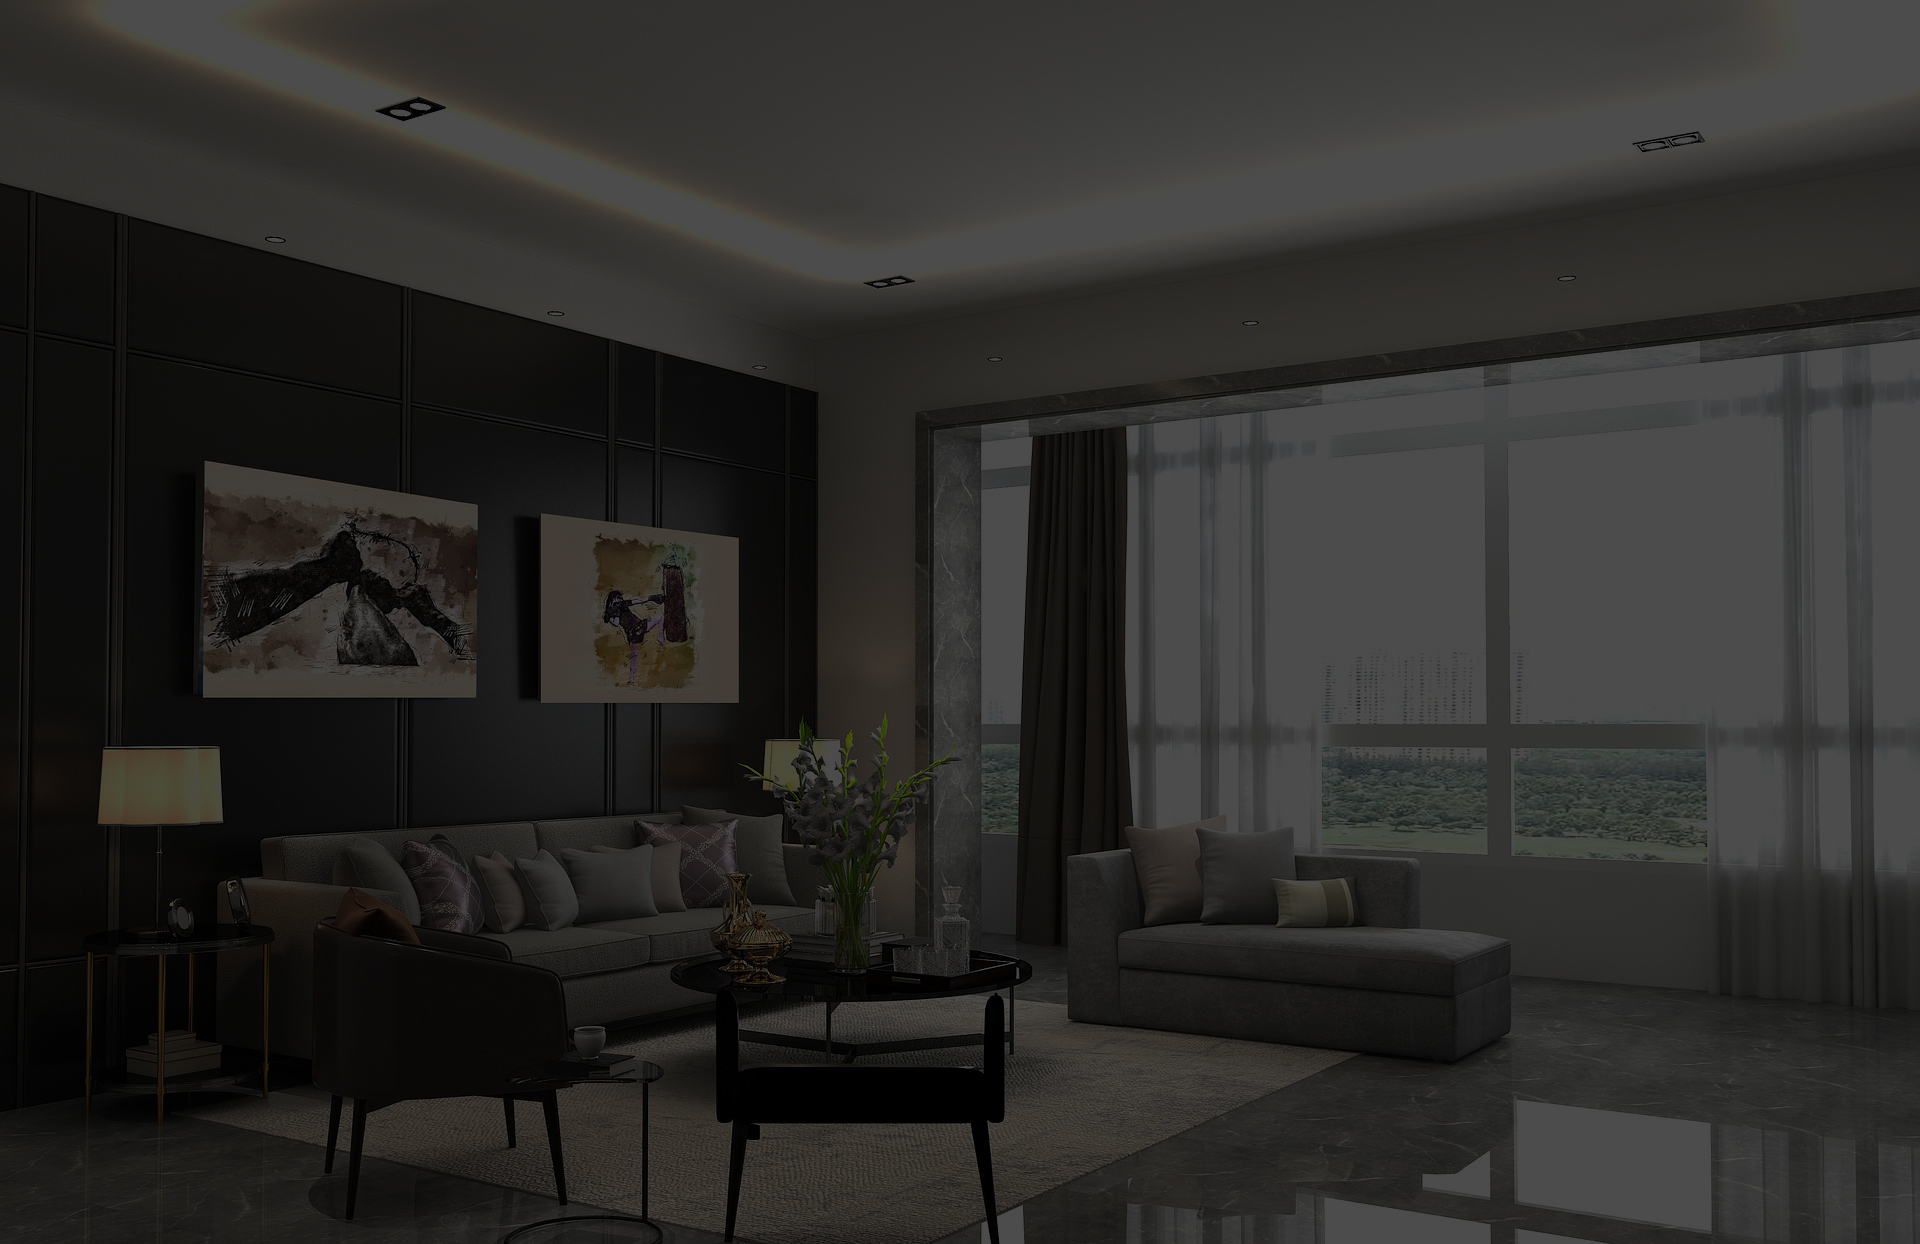
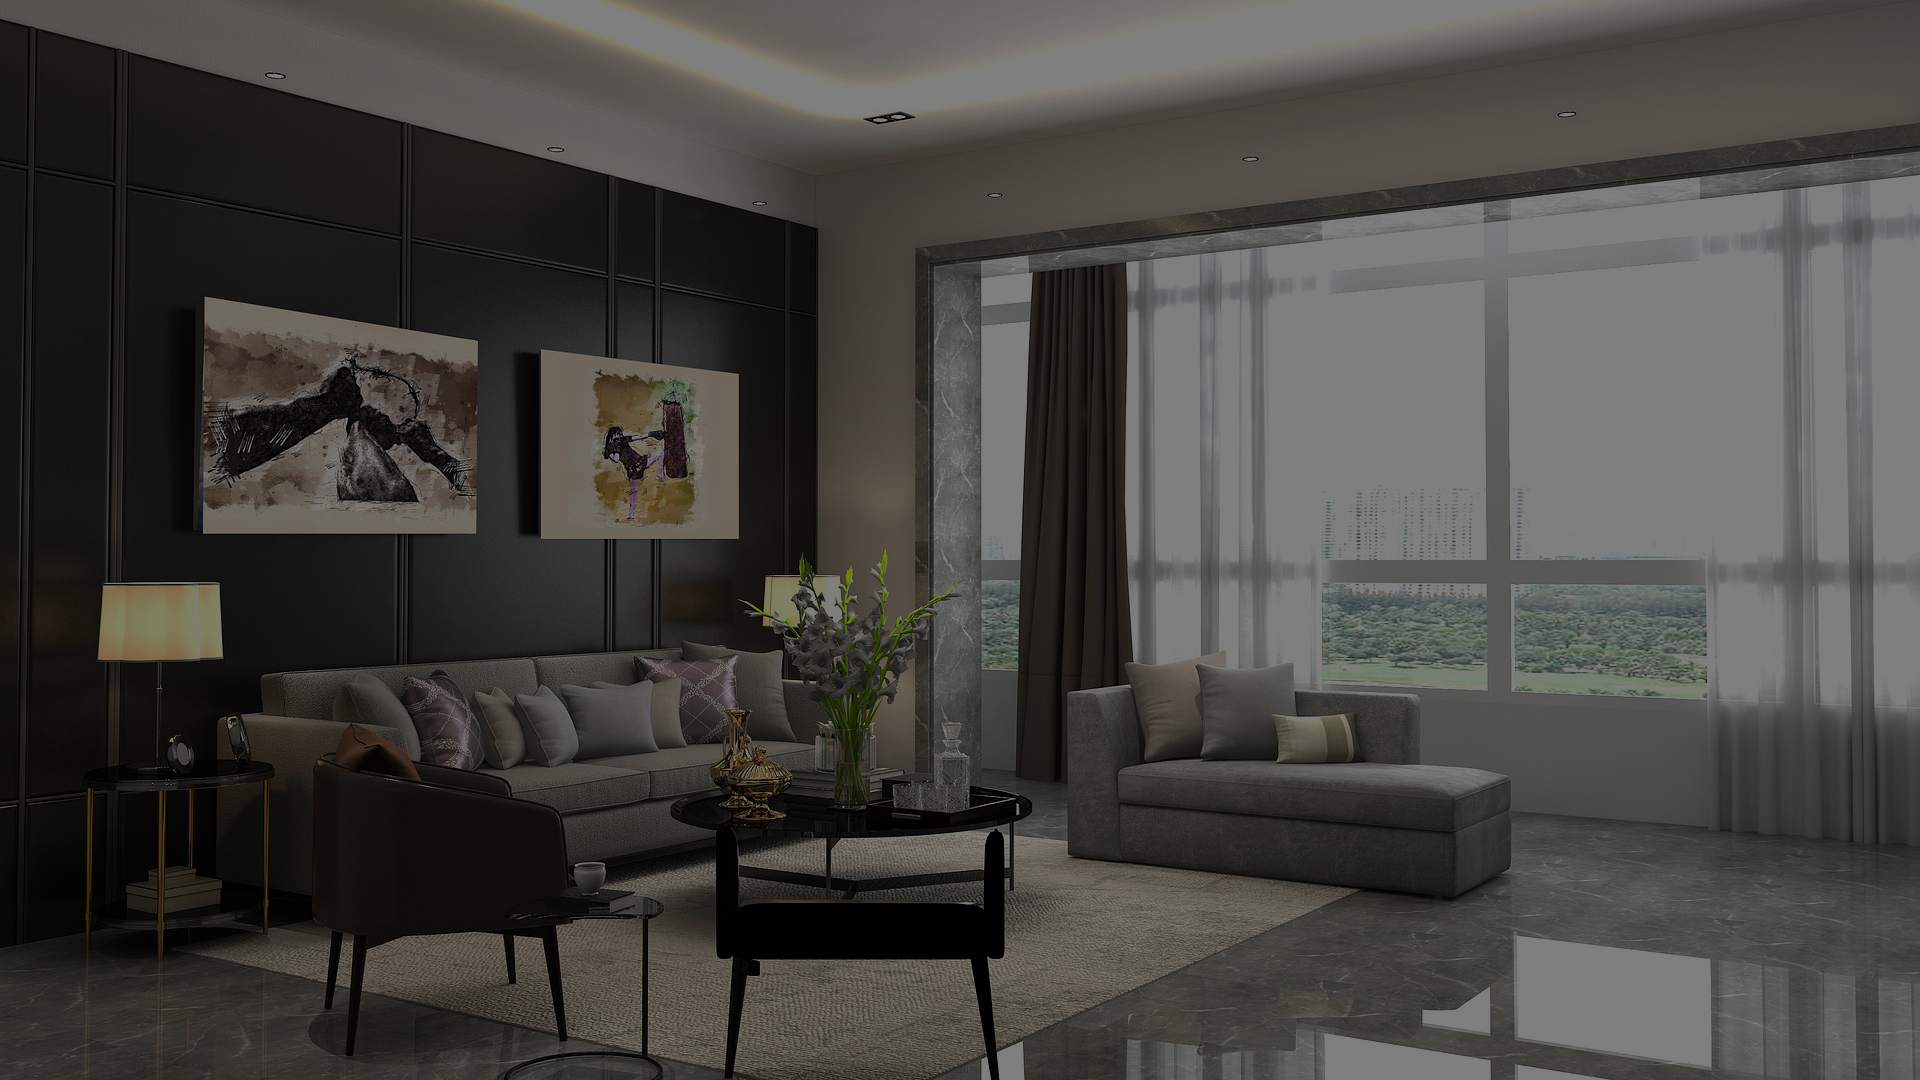
change image

diff --git a/src/app/modules/home/components/slider/slider.component.html b/src/app/modules/home/components/slider/slider.component.html
@@ -11,7 +11,7 @@
   <!-- Wrapper for slides -->
   <div class="carousel-inner" role="listbox">
     <div class="item active">
-      <img class="img-responsive" src="assets/img/1920x1080/06.jpg" alt="Slider Image">
+      <img class="img-responsive" src="assets/img/1920x1080/07.jpg" alt="Slider Image">
       <div class="container">
         <div class="carousel-centered">
           <div class="margin-b-40">
@@ -26,7 +26,7 @@
       </div>
     </div>
     <div class="item">
-      <img class="img-responsive" src="assets/img/1920x1080/05.jpg" alt="Slider Image">
+      <img class="img-responsive" src="assets/img/1920x1080/06.jpg" alt="Slider Image">
       <div class="container">
         <div class="carousel-centered">
           <div class="margin-b-40">
